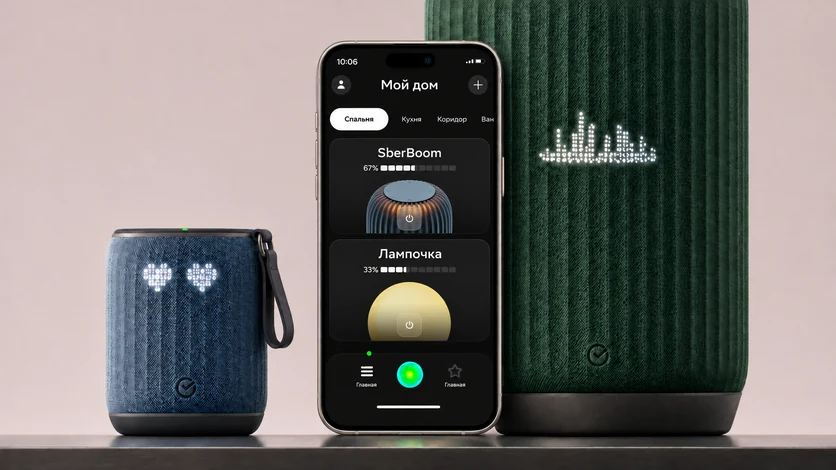
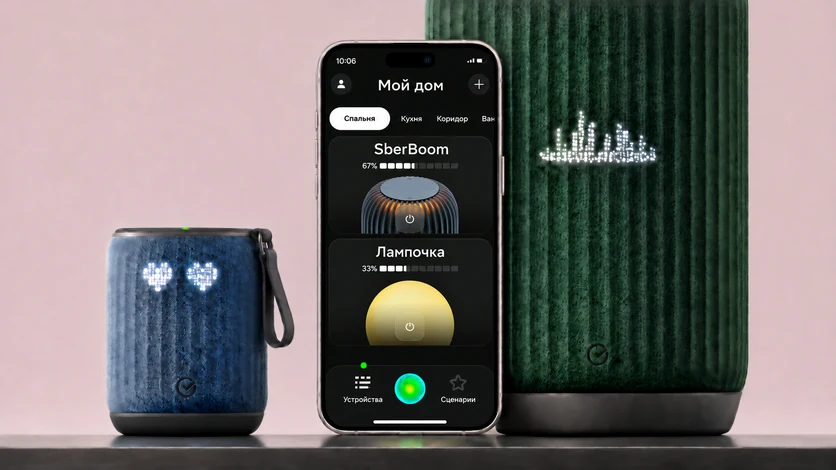
Гигасправка: крупный план на главной, средний план в шапке кейса — телефон не обрезается
Claude-Session: https://claude.ai/code/session_01Uts8gzEhFyY5EzDRwkpjpk

diff --git a/giga-case.html b/giga-case.html
@@ -7,7 +7,7 @@
   <meta name="description" content="Агентная архитектура поддержки умных устройств SberDevices: агент решает поломки раньше, чем пользователь их заметит.">
   <link rel="preload" href="assets/fonts/onest-cyrillic.woff2" as="font" type="font/woff2" crossorigin>
   <link rel="stylesheet" href="css/v2.css?v=78">
-  <link rel="stylesheet" href="css/case.css?v=76">
+  <link rel="stylesheet" href="css/case.css?v=77">
   <link rel="stylesheet" href="css/theme.css?v=9">
   <script>(function(){try{var t=localStorage.getItem("theme");if(!t)t=matchMedia("(prefers-color-scheme: dark)").matches?"dark":"light";document.documentElement.dataset.theme=t}catch(e){}})()</script>
   <script>if(/[?&]from=proto/.test(location.search)){var st=document.createElement('style');st.textContent='@view-transition{navigation:auto}::view-transition-group(*){animation-duration:.55s;animation-timing-function:cubic-bezier(.65,0,.35,1)}.hero .shot{view-transition-name:'+(location.pathname.indexOf('telemost')>-1?'cover-tm':'cover-giga')+'}';document.head.appendChild(st)}</script>
@@ -33,7 +33,7 @@
       <div><dt>Год</dt><dd>2026</dd></div>
     </dl>
     <figure class="shot gc-shot">
-      <img src="assets/img/giga/cover-new.webp" alt="Приложение «Мой дом» на телефоне между колонками SberBoom: карточки колонки и лампочки с уровнем заряда" decoding="async">
+      <img src="assets/img/giga/hero-mid.webp" alt="Приложение «Мой дом» на телефоне между колонками SberBoom: карточки колонки и лампочки с уровнем заряда" decoding="async">
     </figure>
   </header>
 

diff --git a/index.html b/index.html
@@ -70,7 +70,7 @@
 
     <a class="case card" href="giga-case.html">
       <div class="media"><div class="m-tags" aria-hidden="true"><span>Mobile</span><span>Agent UX</span></div>
-        <img class="gc-cv" src="assets/img/giga/cover-new.webp" srcset="assets/img/giga/cover-new-sm.webp 836w, assets/img/giga/cover-new.webp 1672w" sizes="(max-width:760px) 100vw, 950px" alt="Приложение «Мой дом» на телефоне между колонками SberBoom: карточки колонки и лампочки с уровнем заряда" decoding="async">
+        <img class="gc-cv" src="assets/img/giga/cover-new.webp?v=2" srcset="assets/img/giga/cover-new-sm.webp?v=2 836w, assets/img/giga/cover-new.webp?v=2 1672w" sizes="(max-width:760px) 100vw, 950px" alt="Приложение «Мой дом» на телефоне между колонками SberBoom: карточки колонки и лампочки с уровнем заряда" decoding="async">
       </div>
       <div class="body">
         <div class="name"><img src="assets/img/giga/app-icon.png" alt=""><h2>Гигасправка</h2></div><span class="short">Агент чинит раньше, чем вы&nbsp;заметите</span>

diff --git a/css/case.css b/css/case.css
@@ -579,3 +579,8 @@ h1,h2,h3{text-wrap:balance}
 /* обложка в шапке всегда на всю ширину карточки: в Safari пропорция + max-height могли сужать её и оставлять пустоту справа */
 .hero .shot{width:100%;align-self:stretch;box-sizing:border-box}
 .hero .shot > img,.hero .shot > video{width:100%;height:100%;object-fit:cover;display:block}
+/* Гигасправка: в шапке средний план — телефон целиком, колонки по бокам */
+.hero .shot.gc-shot{aspect-ratio:1340/680}
+.hero .shot.gc-shot img{object-position:50% 70%}
+@media (max-width:760px){ .hero .shot.gc-shot{aspect-ratio:4/3} .hero .shot.gc-shot img{object-position:50% 70%} }
+.hero .shot.gc-shot{max-height:none}
